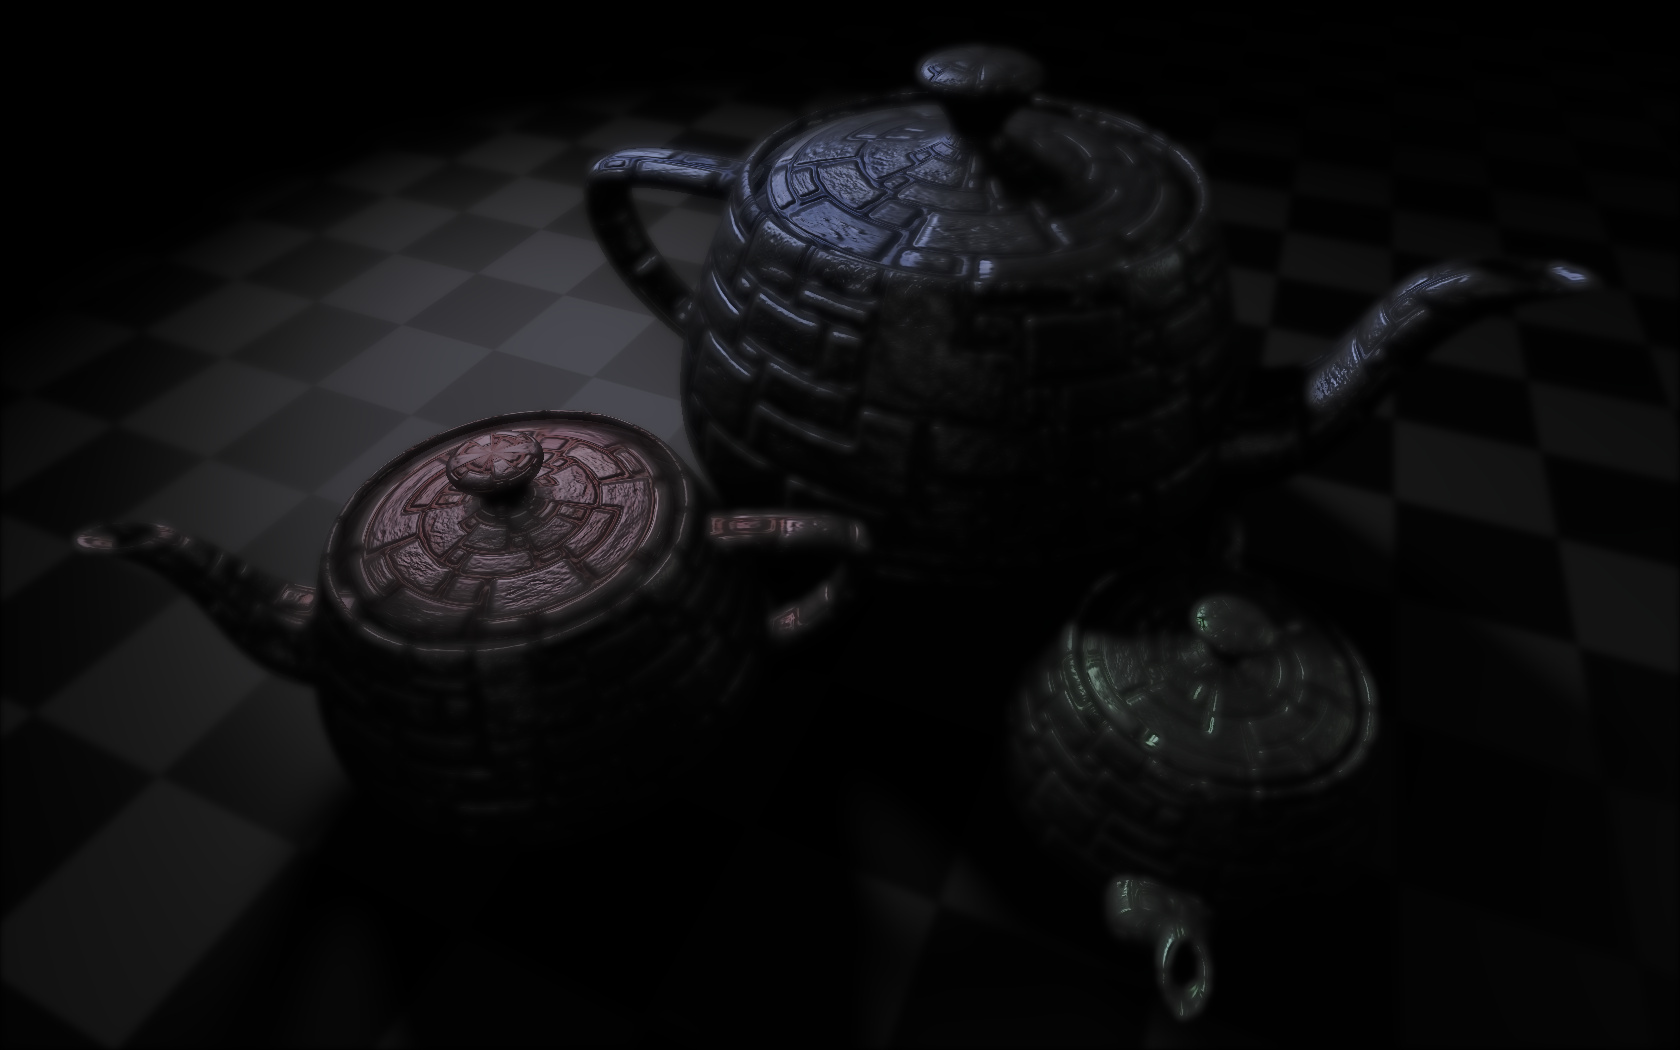
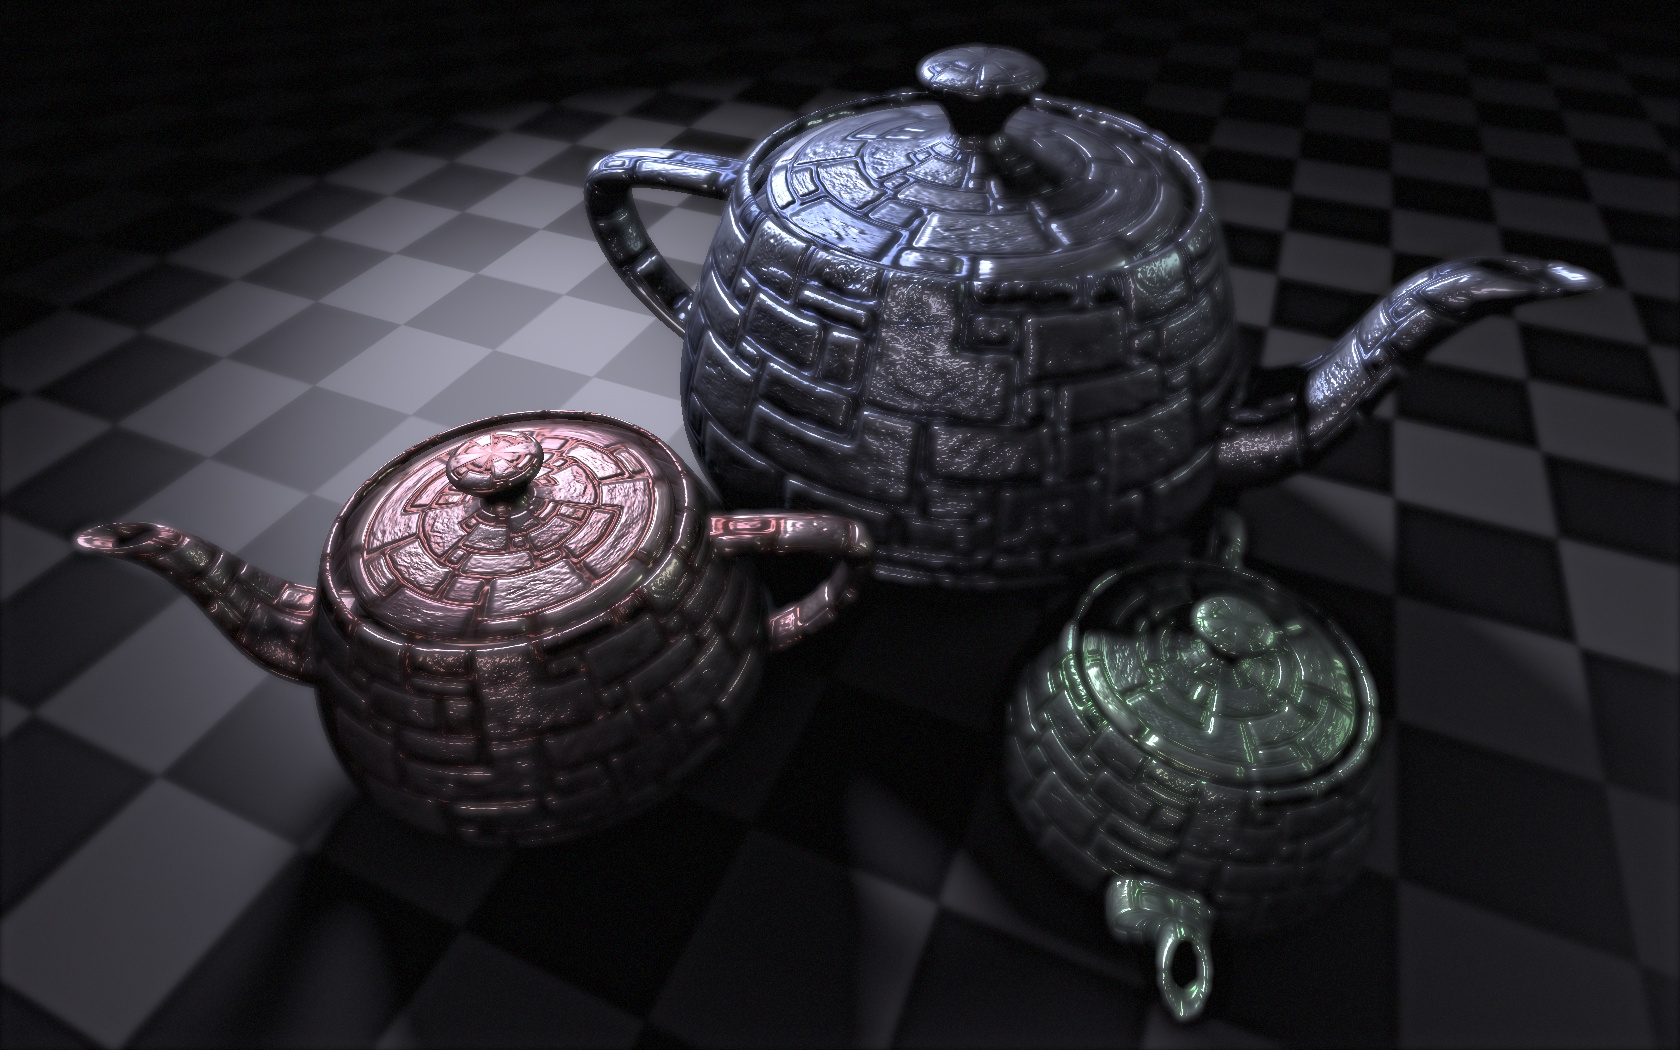
more post-proc

diff --git a/Chapters/Chapter6.tex b/Chapters/Chapter6.tex
@@ -308,16 +308,19 @@ One major drawbacks of standard shadow mapping is that depth maps cannot be filt
 \clearpage
 \section{Post-processing effects}
 
-Several post-processing effects were implemented in order to test the pipeline. Figure \ref{fig:postProcOff} shows a test scene. The high-dynamic range output of this rendering is supplied to a \emph{PostProcessor} before gamma-correction. The image is mapped onto a full-screen quadrilateral, which is rendered with shaders generated from a kernel graph. Post-processing effects of multi-scale glare simulation and color banding reduction are applied and yield the image shown in figure \ref{fig:postProcOn}.
+Several post-processing effects were implemented in order to test the pipeline. Figure \ref{fig:postProcOff} shows a test scene. The high-dynamic range output of this rendering is supplied to a \emph{PostProcessor} before gamma-correction. The image is mapped onto a full-screen quadrilateral, which is rendered with shaders generated from a kernel graph. When post-processing effects of multi-scale glare simulation and color banding reduction are applied, they yield the image shown in figure \ref{fig:postProcOn}.
 
 \begin{figure}[h!]
   \centering
   \subfigure[Post-processing off]{\label{fig:postProcOff}\includegraphics[width=0.45\linewidth]{./Figures/postProc/off.jpg}}
-  \subfigure[Post-processing on]{\label{fig:postProcOn}\includegraphics[width=0.45\linewidth]{./Figures/postProc/glareNoise.jpg}}
+  \subfigure[Subtle glare and banding reduction]{\label{fig:postProcOn}\includegraphics[width=0.45\linewidth]{./Figures/postProc/glareNoise.jpg}}
+  \caption{The scene used to test post-processing filters}
   \label{fig:postProcTestScene}
 \end{figure}
 
 \subsection{Uniform filters}
+
+The most basic post-processing filters are ones which operate uniformly on individual samples without taking any other parts of the image into consideration. Figure \ref{fig:postProcSimple} demonstrates two such filters. They are implemented as simple \emph{Cg} functions operating on individual colors, then automatically lifted to work on whole images by the functional composition mechanism described in section \ref{sec:FunctionalComposition}.
 
 \begin{figure}[h!]
   \centering
@@ -327,38 +330,45 @@ Several post-processing effects were implemented in order to test the pipeline. 
   \label{fig:postProcSimple}
 \end{figure}
 
-The most basic post-processing filters are ones which operate uniformly on individual colors. Figure \ref{fig:postProcSimple} demonstrates two such filters.
-
 \subsection{Blur}
 
-As mentioned in section \ref{sec:PostProcessing}, the post-processing systems allows multi-pass rendering. One common application of this feature is computation of separable filters, such as the Gaussian blur, shown in figure \ref{fig:postProcBlur}. The first image shows the result of convolving the image with only a horizontal Gaussian blur. A \emph{Blit} node is inserted after the horizontal blur, followed by vertical blurring. This effectively approximates a complete two-dimensional Gaussian blur, however with an order of magnitude less samples taken from the image.
+As mentioned in section \ref{sec:PostProcessing}, the post-processing system allows multi-pass rendering. One common application of this feature is computation of separable filters, such as the Gaussian blur shown in figure \ref{fig:postProcBlur}. The first image shows the result of convolving the signal with only a horizontal Gaussian kernel. A \emph{Blit} node is inserted after this step and followed by vertical blurring. This effectively approximates a complete two-dimensional Gaussian blur, however with an order of magnitude less samples taken from the image.
 
 \begin{figure}[h!]
   \centering
-  \subfigure[Horizontal Gaussian blur]{\label{fig:postProcBlurHoriz}\includegraphics[width=0.45\linewidth]{./Figures/postProc/blurMoreHoriz.jpg}}
-  \subfigure[Gaussian blur]{\label{fig:postProcBlur}\includegraphics[width=0.45\linewidth]{./Figures/postProc/blurMore.jpg}}
+  \subfigure[Horizontal]{\label{fig:postProcBlurHoriz}\includegraphics[width=0.45\linewidth]{./Figures/postProc/blurMoreHoriz.jpg}}
+  \subfigure[Horizontal and vertical]{\label{fig:postProcBlurFull}\includegraphics[width=0.45\linewidth]{./Figures/postProc/blurMore.jpg}}
+  \caption{Gaussian blur}
   \label{fig:postProcBlur}
 \end{figure}
 
 \subsection{Glare}
 
-TODO: background
+A glare effect can improve the realism of a computer-generated image by simulating the effects which happen in the human visual systems at luminance values unattainable by current mainstream display technology \cite{Spencer95physicallybasedglare}. Consumer--level display devices are limited to 256--1024 luminance levels and max brightness levels of about 500 $cd/m^2$. For comparison, the clear daytime sky at horizon has about 10,000 $cd/m^2$ and fairly bright moonlight 0.01 $cd/m^2$ \cite{radiometryPhotometry}. There is simply no way to display such a varying range on a display device, therefore many effects responsible for realistic perception of the scene do not have a chance to form.
+
+One of the sources of glare is light scattering within the cornea and the lens of the eye. \citet{Spencer95physicallybasedglare} note that it can be approximated with a sum of Gaussian-filtered images. The particular shape of this scattering effect varies from individual to individual, and while it may be evaluated experimentally and averaged, it is also an important artistic tool.
+
+The example glare filter implemented within Nucleus uses a combination of four hierarchically blurred images, weighted by empirically obtained values and summed with the original image. Figure \ref{fig:postProcGlare} demonstrates an exaggerated version of this post-processing effect.
 
 \begin{figure}[h!]
   \centering
     \includegraphics[width=0.9\linewidth]{./Figures/postProc/glare.jpg}
-    \caption[Glare]{Multi-scale glare applied to the test scene}
+    \caption[Glare]{Multi-scale glare applied to the test scene (exaggerated)}
   \label{fig:postProcGlare}
 \end{figure}
 
 \subsection{Spatial acuity and color sensitivity reduction}
 
-TODO: background
+Simulations of some form of glare are common in real-time rendering systems -- most commonly known as ``bloom'', they actually aim to simulate camera lens. However, besides glare, which is mostly apparent in high contrast situations, the human visual system exhibits another phenomenon, which unfortunately is rarely tackled by computer graphics. Under low luminance conditions, \emph{cone cells} in the eye are mostly nonfunctional. Because cone cells are the component of the human visual system which allows us to perceive colors, lack of their activation means that in low luminance conditions, human vision is monochromatic, perceived with a slight blue tint. Additionally, experimental subjects often describe this ``scotopic vision'' as blurry and noisy \cite{Thompson_aspatial}.
+
+\citet{Thompson_aspatial} have proposed an empirically-based low-luminance post-processing filter. Since it uses images convolved by Gaussian kernels, it comes at a slight additional cost to glare simulation -- in fact, the two filters have been merged into one within Nucleus. The post-processing kernel first computes an acuity value (figure \ref{fig:postProcAcuityMap}) for each pixel of the processed image, then uses this value to interpolate between the regular color (photopic vision) and the result of the scotopic filter. The acuity value is calculated by passing samples of the blurred images through a step function, then blending them together using the ``screen'' method ($1 - (1-a)*(1-b)$).
 
 \begin{figure}[h!]
   \centering
   \subfigure[Post-processing off]{\label{fig:postProcNoAcuity}\includegraphics[width=0.45\linewidth]{./Figures/postProc/noAcuity.jpg}}
   \subfigure[Spatial acuity and color sensitivity reduction (exaggerated)]{\label{fig:postProcAcuity}\includegraphics[width=0.45\linewidth]{./Figures/postProc/acuity.jpg}}
+  \subfigure[Acuity map]{\label{fig:postProcAcuityMap}\includegraphics[width=0.45\linewidth]{./Figures/postProc/acuityMap.jpg}}
+  \caption[Scotopic vision]{Realism enhancement at low-luminance conditions}
   \label{fig:postProcAcuityComparison}
 \end{figure}
 
@@ -379,7 +389,8 @@ TODO: info
 
 \begin{figure}[h!]
   \centering
-  \subfigure[Banding artifact]{\label{fig:postProcBanding}\includegraphics[width=0.45\linewidth]{./Figures/postProc/banding.png}}
+  \subfigure[Post-processing off]{\label{fig:postProcBanding}\includegraphics[width=0.45\linewidth]{./Figures/postProc/banding.png}}
   \subfigure[Banding hidden by noise]{\label{fig:postProcNoBanding}\includegraphics[width=0.45\linewidth]{./Figures/postProc/noBanding.png}}
+  \caption[Color banding reduction]{Color banding reduction}
   \label{fig:postProcBandingNoBanding}
 \end{figure}

diff --git a/Chapters/Chapter4.tex b/Chapters/Chapter4.tex
@@ -276,6 +276,7 @@ TODO: example
 % TODO: describe the algorithm for breaking down processing into passes
 
 \section{Functional composition}
+\label{sec:FunctionalComposition}
 
 % TODO: Linear data flow in the kernel DAG too restricting. Nucleus supports functional composition with currying instead.
 
